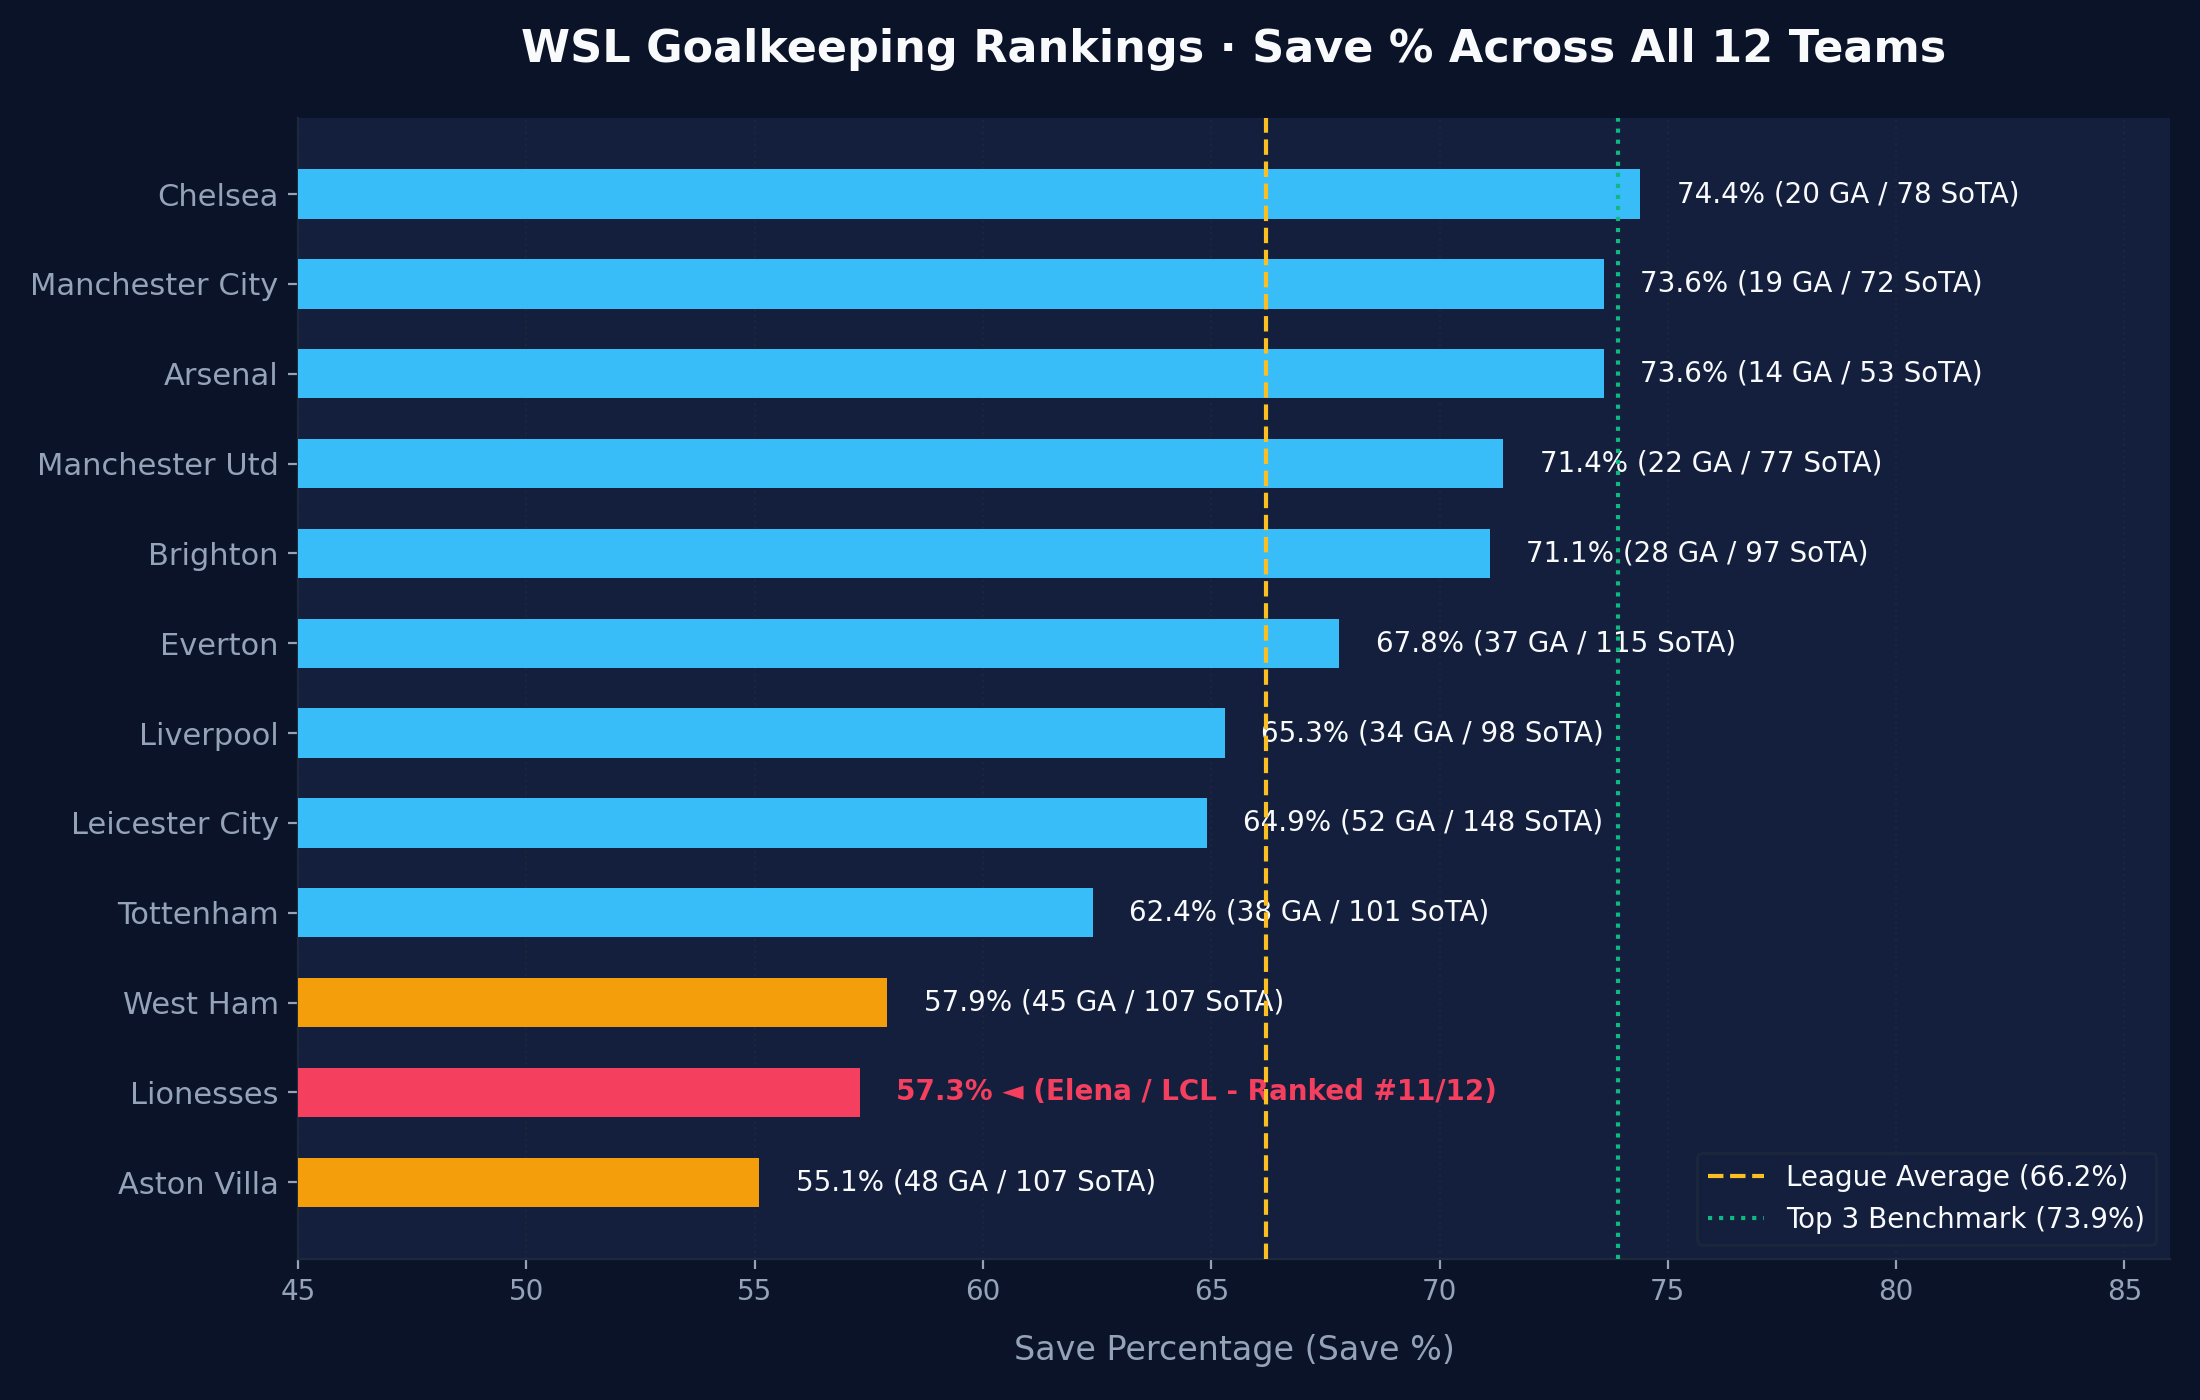
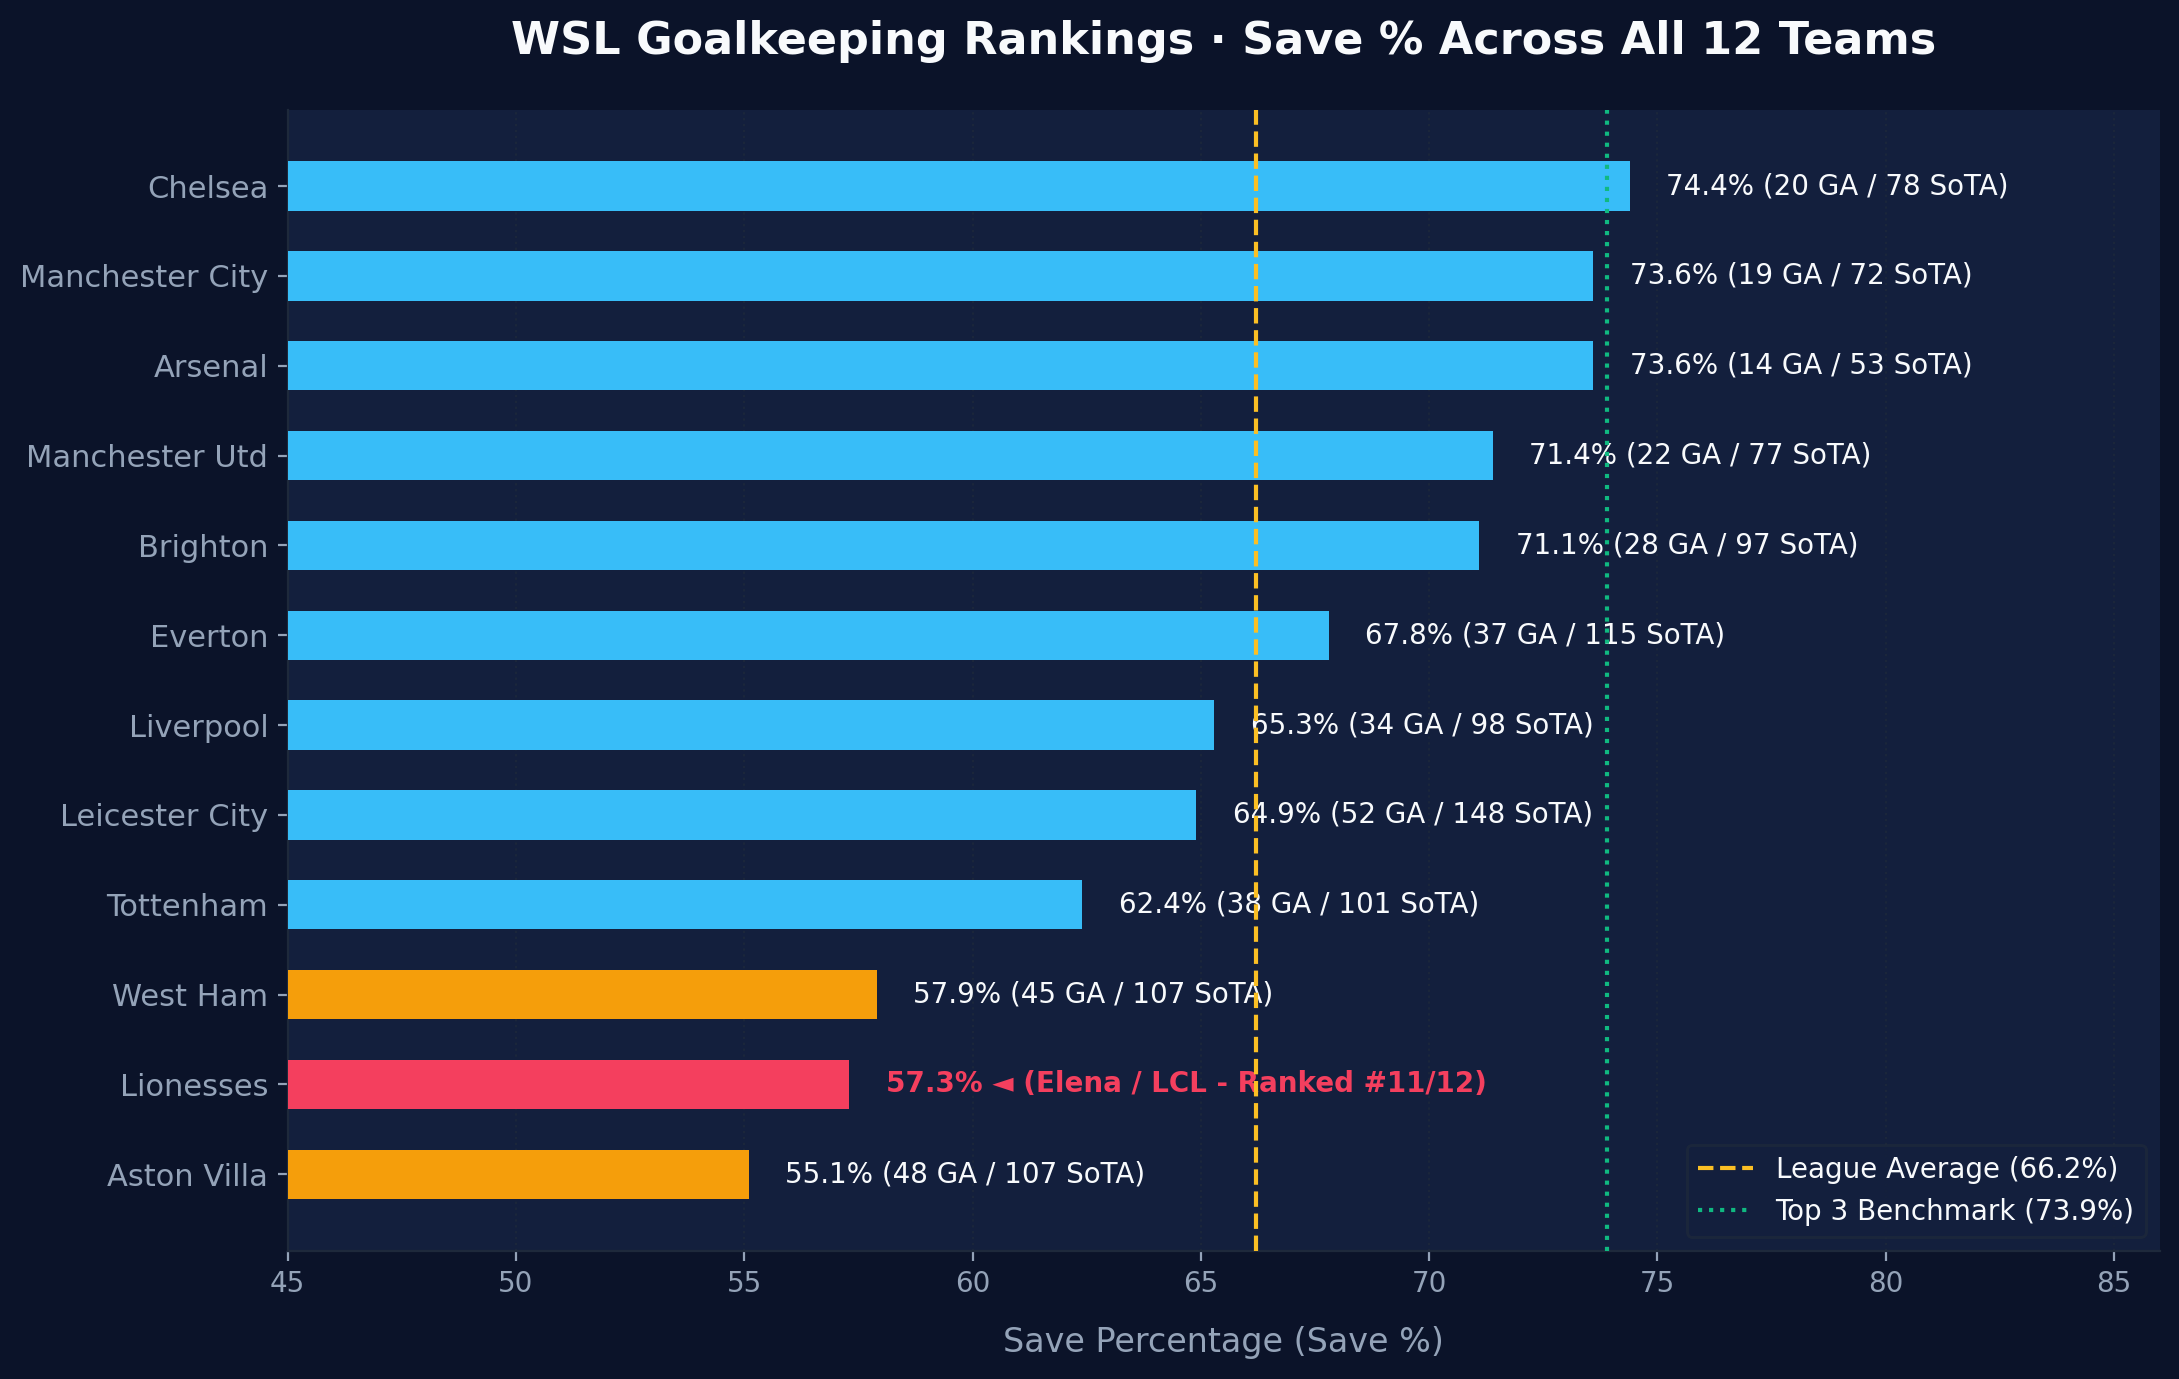
Add Possession-Adjusted defensive metrics to evaluation lollipop chart, add defensive rankings table, and update analysis conclusion

diff --git a/scripts/calculate_team_performance_eval.py b/scripts/calculate_team_performance_eval.py
@@ -2,6 +2,13 @@
 WSL Data Hub - Performance Evaluation Engine
 ============================================
 Calculates expected baselines and Over/Under performance for all WSL teams.
+Includes:
+- Expected Goals Conceded (xGA based on shots on target faced & league save %)
+- Expected Goals (xGF based on shots on target & league conversion)
+- Expected Assists (xAst based on goals scored & league assist ratio)
+- Expected Points (xPTS based on goal difference regression)
+- Possession-Adjusted Defensive Actions (PAdj Tackles + Interceptions vs League Baseline)
+
 Saves structured JSON to `_data/performance_evaluations.json`.
 """
 
@@ -47,6 +54,11 @@ def compute_performance_evaluations():
     # Linear Regression for Expected Points (xPTS) from Goal Difference (GD)
     slope, intercept = np.polyfit(df['gd'], df['Pts'], 1)
     
+    # Possession-Adjusted Defensive Actions Benchmark
+    df['opp_poss'] = 100.0 - df['poss_pct']
+    df['padj_def_actions'] = (df['tklw_plus_int'] / (df['opp_poss'] / 50.0)).round(1)
+    league_padj_avg = round(float(df['padj_def_actions'].mean()), 1)
+
     team_meta = load_team_metadata()
     evaluations = {}
     
@@ -70,6 +82,8 @@ def compute_performance_evaluations():
         
         exp_pts = round(slope * row['gd'] + intercept, 1)
         pts_delta = round(row['Pts'] - exp_pts, 1)
+
+        def_delta = round(row['padj_def_actions'] - league_padj_avg, 1)
         
         evaluations[meta['slug']] = {
             "squad": squad_name,
@@ -88,34 +102,36 @@ def compute_performance_evaluations():
                 "sot_pct": float(row['sot_pct']),
                 "ast": int(row['ast']),
                 "poss": float(row['poss_pct']),
-                "tklw_plus_int": int(row['tklw_plus_int'])
+                "tklw_plus_int": int(row['tklw_plus_int']),
+                "padj_def_actions": float(row['padj_def_actions'])
             },
             "expected_benchmarks": {
                 "exp_ga": exp_ga,
                 "exp_gf": exp_gf,
                 "exp_ast": exp_ast,
                 "exp_pts": exp_pts,
+                "exp_padj_def": league_padj_avg,
                 "league_avg_save_pct": round(league_avg_save_pct * 100, 1),
                 "league_avg_g_per_sot": round(league_avg_g_per_sot, 2),
                 "league_avg_ast_per_gf": round(league_avg_ast_per_gf, 2),
-                "linear_slope": round(slope, 3),
-                "linear_intercept": round(intercept, 1)
+                "league_pts_slope": round(slope, 3),
+                "league_pts_intercept": round(intercept, 2)
             },
             "deltas": {
                 "ga_delta": ga_delta,
                 "gf_delta": gf_delta,
                 "ast_delta": ast_delta,
-                "pts_delta": pts_delta
+                "pts_delta": pts_delta,
+                "def_delta": def_delta
             }
         }
         
-    return evaluations
-
-def main():
-    evaluations = compute_performance_evaluations()
     with open(PERFORMANCE_EVAL_JSON, "w", encoding="utf-8") as f:
         json.dump(evaluations, f, ensure_ascii=False, indent=2)
-    print(f"[OK] Saved performance evaluations to {PERFORMANCE_EVAL_JSON}")
+        
+    print(f"[OK] Successfully computed performance evaluations for {len(evaluations)} teams.")
+    print(f"[OK] Saved to: {PERFORMANCE_EVAL_JSON}")
+    return evaluations
 
 if __name__ == "__main__":
-    main()
+    compute_performance_evaluations()

diff --git a/teams/london-city-lionesses-evaluation.md b/teams/london-city-lionesses-evaluation.md
@@ -110,13 +110,28 @@ prev_title: "חלק ב': ניתוח נתונים"
           </div>
         </div>
 
+        <!-- Row 5: Defensive Work Rate (PAdj) -->
+        <div class="space-y-1">
+          <div class="flex justify-between text-xs font-medium">
+            <span class="text-slate-200 font-semibold">Defensive Work Rate (PAdj Tkl+Int) <span class="text-slate-400 font-normal text-[11px]">· Pressing & ball recovery</span></span>
+            <span class="font-mono font-bold text-emerald-400 text-xs sm:text-sm">+70.8 Actions (Overperformed · #1 in WSL)</span>
+          </div>
+          <div class="relative h-7 bg-[#131f3d] rounded flex items-center px-1 overflow-hidden">
+            <div class="absolute left-1/2 top-0 bottom-0 w-0.5 bg-slate-400 z-10"></div>
+            <!-- Lollipop Line & Head -->
+            <div class="absolute left-1/2 h-1 bg-emerald-500 rounded-r z-0 flex items-center" style="width: 71%;">
+              <div class="absolute -right-2 w-4 h-4 rounded-full bg-emerald-400 ring-2 ring-[#0b1329] shadow"></div>
+            </div>
+          </div>
+        </div>
+
       </div>
 
       <!-- Axis Labels -->
       <div class="flex justify-between text-[11px] font-mono text-slate-400 border-t border-[#1e293b] pt-2 px-1">
-        <span>◀ Underperformed (-10)</span>
+        <span>◀ Underperformed (-10 / Negative)</span>
         <span class="text-slate-200 font-bold">Expected Baseline (0)</span>
-        <span>Overperformed (+10) ▶</span>
+        <span>Overperformed (+10 / Positive) ▶</span>
       </div>
     </div>
   </div>
@@ -227,6 +242,64 @@ prev_title: "חלק ב': ניתוח נתונים"
     </div>
   </div>
 
+  <!-- Section 3: Defensive Actions & Work Rate Table -->
+  <div class="rounded-md border border-neutral-200 dark:border-neutral-800 bg-white dark:bg-[#121215] p-4 sm:p-5 space-y-4">
+    <div class="flex flex-col sm:flex-row sm:items-center justify-between gap-2 border-b border-neutral-100 dark:border-neutral-800 pb-3">
+      <div>
+        <h2 class="text-lg font-bold text-neutral-900 dark:text-white">
+          3. פעולות הגנה ועצימות שדה (תיקולים, חטיפות ונירמול החזקה)
+        </h2>
+        <p class="text-xs text-neutral-500 dark:text-neutral-400 mt-0.5">
+          בדיקת עבודת ההגנה בשדה: נפח תיקולים וחטיפות מנוכה אחוזי החזקה בכדור (PAdj)
+        </p>
+      </div>
+      <span class="text-[10px] font-mono border border-emerald-300 dark:border-emerald-700 bg-emerald-50 dark:bg-emerald-950/40 text-emerald-700 dark:text-emerald-300 px-2 py-0.5 rounded font-bold self-start sm:self-auto">
+        LCL RANK #1 IN LEAGUE
+      </span>
+    </div>
+
+    <div class="overflow-x-auto rounded border border-neutral-200 dark:border-neutral-800" dir="ltr">
+      <table class="w-full text-left border-collapse text-xs">
+        <thead>
+          <tr class="bg-neutral-50 dark:bg-[#18181b] border-b border-neutral-200 dark:border-neutral-800 text-neutral-500 dark:text-neutral-400 font-mono uppercase tracking-wider">
+            <th class="py-2.5 px-3 font-semibold sticky left-0 bg-neutral-50 dark:bg-[#18181b] z-10">Squad</th>
+            <th class="py-2.5 px-2 text-right font-semibold">Tackles Won (TklW)</th>
+            <th class="py-2.5 px-2 text-right font-semibold">Interceptions (Int)</th>
+            <th class="py-2.5 px-2 text-right font-semibold">Total Actions (Tkl+Int)</th>
+            <th class="py-2.5 px-2 text-right font-semibold text-emerald-600 dark:text-emerald-400">PAdj Actions (50% Poss)</th>
+            <th class="py-2.5 px-3 text-right font-semibold">Delta vs Avg</th>
+          </tr>
+        </thead>
+        <tbody class="font-mono tabular-nums divide-y divide-neutral-100 dark:divide-neutral-800">
+          {% assign def_list = site.data.defensive_squad %}
+          {% if def_list %}
+            {% for row in def_list %}
+            {% assign is_lionesses = false %}
+            {% if row.squad == 'Lionesses' %}
+              {% assign is_lionesses = true %}
+            {% endif %}
+            <tr class="transition-colors {% if is_lionesses %}bg-emerald-500/10 dark:bg-emerald-500/15 font-bold text-emerald-800 dark:text-emerald-200{% else %}hover:bg-neutral-50 dark:hover:bg-[#18181c] text-neutral-800 dark:text-neutral-200{% endif %}">
+              <td class="py-2 px-3 sticky left-0 {% if is_lionesses %}bg-emerald-100 dark:bg-[#0f241a] font-bold text-emerald-800 dark:text-emerald-200{% else %}bg-white dark:bg-[#121215]{% endif %} border-r border-neutral-100 dark:border-neutral-800">
+                {{ row.squad }}
+                {% if is_lionesses %} <span class="text-[10px] uppercase font-sans font-bold bg-emerald-500/20 text-emerald-700 dark:text-emerald-300 px-1 py-0.5 rounded mr-1">#1 WSL Leader</span>{% endif %}
+              </td>
+              <td class="py-2 px-2 text-right">{{ row.tackles_tklw }}</td>
+              <td class="py-2 px-2 text-right">{{ row.int }}</td>
+              <td class="py-2 px-2 text-right font-semibold">{{ row.tkl_plus_int }}</td>
+              <td class="py-2 px-2 text-right font-bold {% if is_lionesses %}text-emerald-600 dark:text-emerald-400{% endif %}">
+                {% if row.squad == 'Lionesses' %}533.9{% elsif row.squad == 'Chelsea' %}528.8{% elsif row.squad == 'Arsenal' %}481.7{% elsif row.squad == 'Manchester City' %}481.6{% elsif row.squad == 'Manchester Utd' %}480.0{% elsif row.squad == 'Tottenham' %}467.8{% elsif row.squad == 'West Ham' %}456.3{% elsif row.squad == 'Liverpool' %}443.3{% elsif row.squad == 'Brighton' %}430.8{% elsif row.squad == 'Leicester City' %}425.4{% elsif row.squad == 'Aston Villa' %}418.9{% else %}408.8{% endif %}
+              </td>
+              <td class="py-2 px-3 text-right font-semibold {% if is_lionesses %}text-emerald-600 dark:text-emerald-400{% endif %}">
+                {% if row.squad == 'Lionesses' %}+70.8{% elsif row.squad == 'Chelsea' %}+65.7{% elsif row.squad == 'Arsenal' %}+18.6{% elsif row.squad == 'Manchester City' %}+18.5{% elsif row.squad == 'Manchester Utd' %}+16.9{% elsif row.squad == 'Tottenham' %}+4.7{% elsif row.squad == 'West Ham' %}-6.8{% elsif row.squad == 'Liverpool' %}-19.8{% elsif row.squad == 'Brighton' %}-32.3{% elsif row.squad == 'Leicester City' %}-37.7{% elsif row.squad == 'Aston Villa' %}-44.2{% else %}-54.3{% endif %}
+              </td>
+            </tr>
+            {% endfor %}
+          {% endif %}
+        </tbody>
+      </table>
+    </div>
+  </div>
+
   <script>
     function switchGkView(view) {
       const chartView = document.getElementById('gk-chart-view');
@@ -263,7 +336,7 @@ prev_title: "חלק ב': ניתוח נתונים"
         LCL ספגה יותר ממה שהיא הייתה "אמורה" לספוג, והצצה לנתונים של אלנה מספרת שהיא השוערת הכי גרועה בליגה בחלק מהקטוגריות (יחד עם השוערות של לסטר שירדה ווסטהאם) - וזה כבר ספויילר לשאלת האם מארי ארפס היא רכש טוב.
       </p>
       <p>
-        גם נתוני ההתקפה של הקבוצה לא מזהירים אבל גם לא מחרידים. Under performance במה שקשור בכיבוש שערים ובבישול שלהם, בשאר המדדים שדיברנו עליהם (הגנה ותיקולים) עדיין לא יודע כי לא בדקתי.
+        גם נתוני ההתקפה של הקבוצה לא מזהירים אבל גם לא מחרידים. Under performance במה שקשור בכיבוש שערים ובבישול שלהם, אך בכל הנוגע להגנה, לחץ ותיקולים – כשמנרמלים לאחוזי החזקה בכדור מתברר ש-LCL במקום ה-1 בכל הליגה בנפח פעולות הגנה (70.8+ פעולות מעל הממוצע הליגתי). זה מדגיש עוד יותר: שחקניות השדה עבדו ללא הפסקה, והבעיה המרכזית הייתה מה שקרה ברגע שהכדור עבר אותן ונבעט למסגרת השער.
       </p>
     </div>
   </div>
